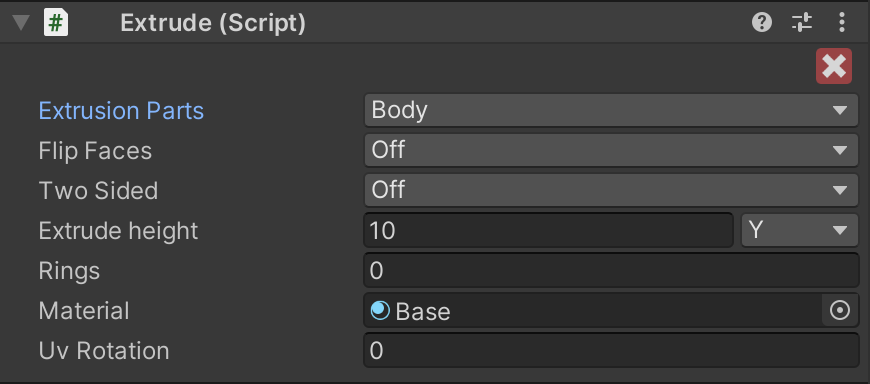
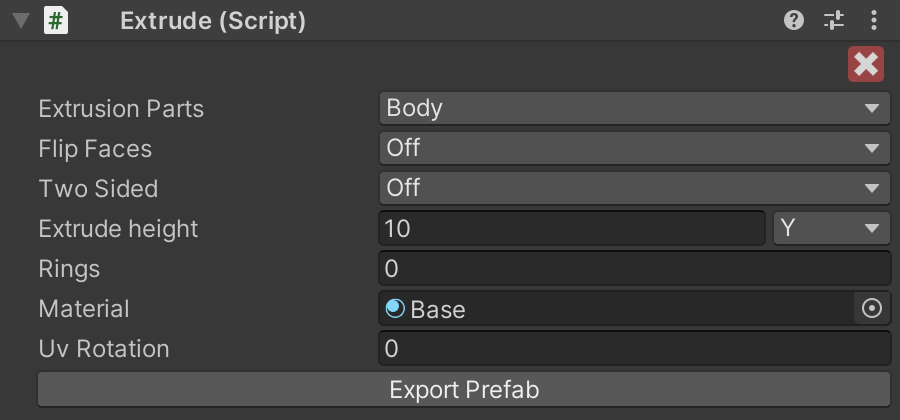
6

Changed region(s): [[0.0, 0.0, 1.0, 1.0], [0.931, 0.7812, 0.9931, 0.8438]]

diff --git a/MeshDeform/Inspector/index.html b/MeshDeform/Inspector/index.html
@@ -700,10 +700,11 @@
 <li>Processing: CPU Single thread - CPU Muli threading - GPU.    </li>
 <li>Translation, rotation, scale with randomization.   </li>
 <li>Node Scale  (Taper effect).  </li>
-<li>Node Normal.  </li>
+<li>Node Normal (Bend effect).  </li>
 <li>Mirroring.   </li>
 <li>Mesh trimming.  </li>
 <li>Copy/Past/Duplicate prefab meshes between branches.</li>
+<li>Export mesh generated as a Unity prefab.  </li>
 <li>API to generate procedural mesh at runtime.  </li>
 </ul>
 <h2 id="inspector">Inspector</h2>
@@ -835,6 +836,14 @@ style="margin-left: 10px; width : 450px" />
 <tr>
 <td>Copy/Past</td>
 <td>Copy the selected prefab mesh. </br> To past the copied prefab mesh, right click on an empty area in the prefab meshes section.</td>
+</tr>
+<tr>
+<td>Clear All</td>
+<td>Remove all prefab meshes added.</td>
+</tr>
+<tr>
+<td>Export</td>
+<td>Export the Unity prefab.</td>
 </tr>
 </tbody>
 </table>

diff --git a/PlaneMesh/Inspector/index.html b/PlaneMesh/Inspector/index.html
@@ -646,8 +646,9 @@ style="margin-left: 10px; width : 700px" />
 <li>Correct Uvs, tangents, normals  generation.  </li>
 <li>UVs rotation.  </li>
 <li>Plane mesh generation on all spline branches.   </li>
-<li>Node normal.  </li>
+<li>Node normal (Bend effect).  </li>
 <li>Node Scale (Taper effect).  </li>
+<li>Export mesh generated as a Unity prefab.  </li>
 </ul>
 <h2 id="inspector">Inspector</h2>
 <p><img src="../images/Inspector.png"
@@ -687,8 +688,8 @@ style="margin-left: 10px; width : 450px" />
 <td>Rotate the  plane mesh Uvs</td>
 </tr>
 <tr>
-<td>Export asset</td>
-<td>Export mesh to an asset file , the file can be found in "Assets/SMDExport"</td>
+<td>Export Prefab</td>
+<td>Export the Unity prefab.</td>
 </tr>
 </tbody>
 </table>

diff --git a/Extrude/Inspector/index.html b/Extrude/Inspector/index.html
@@ -646,8 +646,9 @@ style="margin-left: 10px; width : 700px" />
 <li>Correct Uvs, tangents, normals  generation.  </li>
 <li>UVs rotation  </li>
 <li>Extruded mesh generation on all spline branches  </li>
-<li>Node normal.  </li>
+<li>Node normal (Bend effect).  </li>
 <li>Node Scale (Taper effect).  </li>
+<li>Export mesh generated as a Unity prefab.  </li>
 </ul>
 <h2 id="inspector">Inspector</h2>
 <p><img src="../images/Inspector.png"
@@ -693,6 +694,10 @@ style="margin-left: 10px; width : 450px" />
 <tr>
 <td>Uv Rotation</td>
 <td>Rotate the extruded mesh Uvs.</td>
+</tr>
+<tr>
+<td>Export Prefab</td>
+<td>Export the Unity prefab.</td>
 </tr>
 </tbody>
 </table>

diff --git a/TubeMesh/Inspector/index.html b/TubeMesh/Inspector/index.html
@@ -646,8 +646,9 @@ style="margin-left: 10px; width : 700px" />
 <li>Correct Uvs, tangents, normals  generation.  </li>
 <li>UVs rotation  </li>
 <li>Tube mesh generation on all spline branches  </li>
-<li>Node normal.  </li>
+<li>Node normal (Bend effect).  </li>
 <li>Node Scale (Taper effect).  </li>
+<li>Export mesh generated as a Unity prefab.  </li>
 </ul>
 <h2 id="inspector">Inspector</h2>
 <p><img src="../images/Inspector.png"
@@ -689,6 +690,10 @@ style="margin-left: 10px; width : 450px" />
 <tr>
 <td>Uv Rotation</td>
 <td>Rotate the  tube mesh Uvs</td>
+</tr>
+<tr>
+<td>Export Prefab</td>
+<td>Export the Unity prefab.</td>
 </tr>
 </tbody>
 </table>
